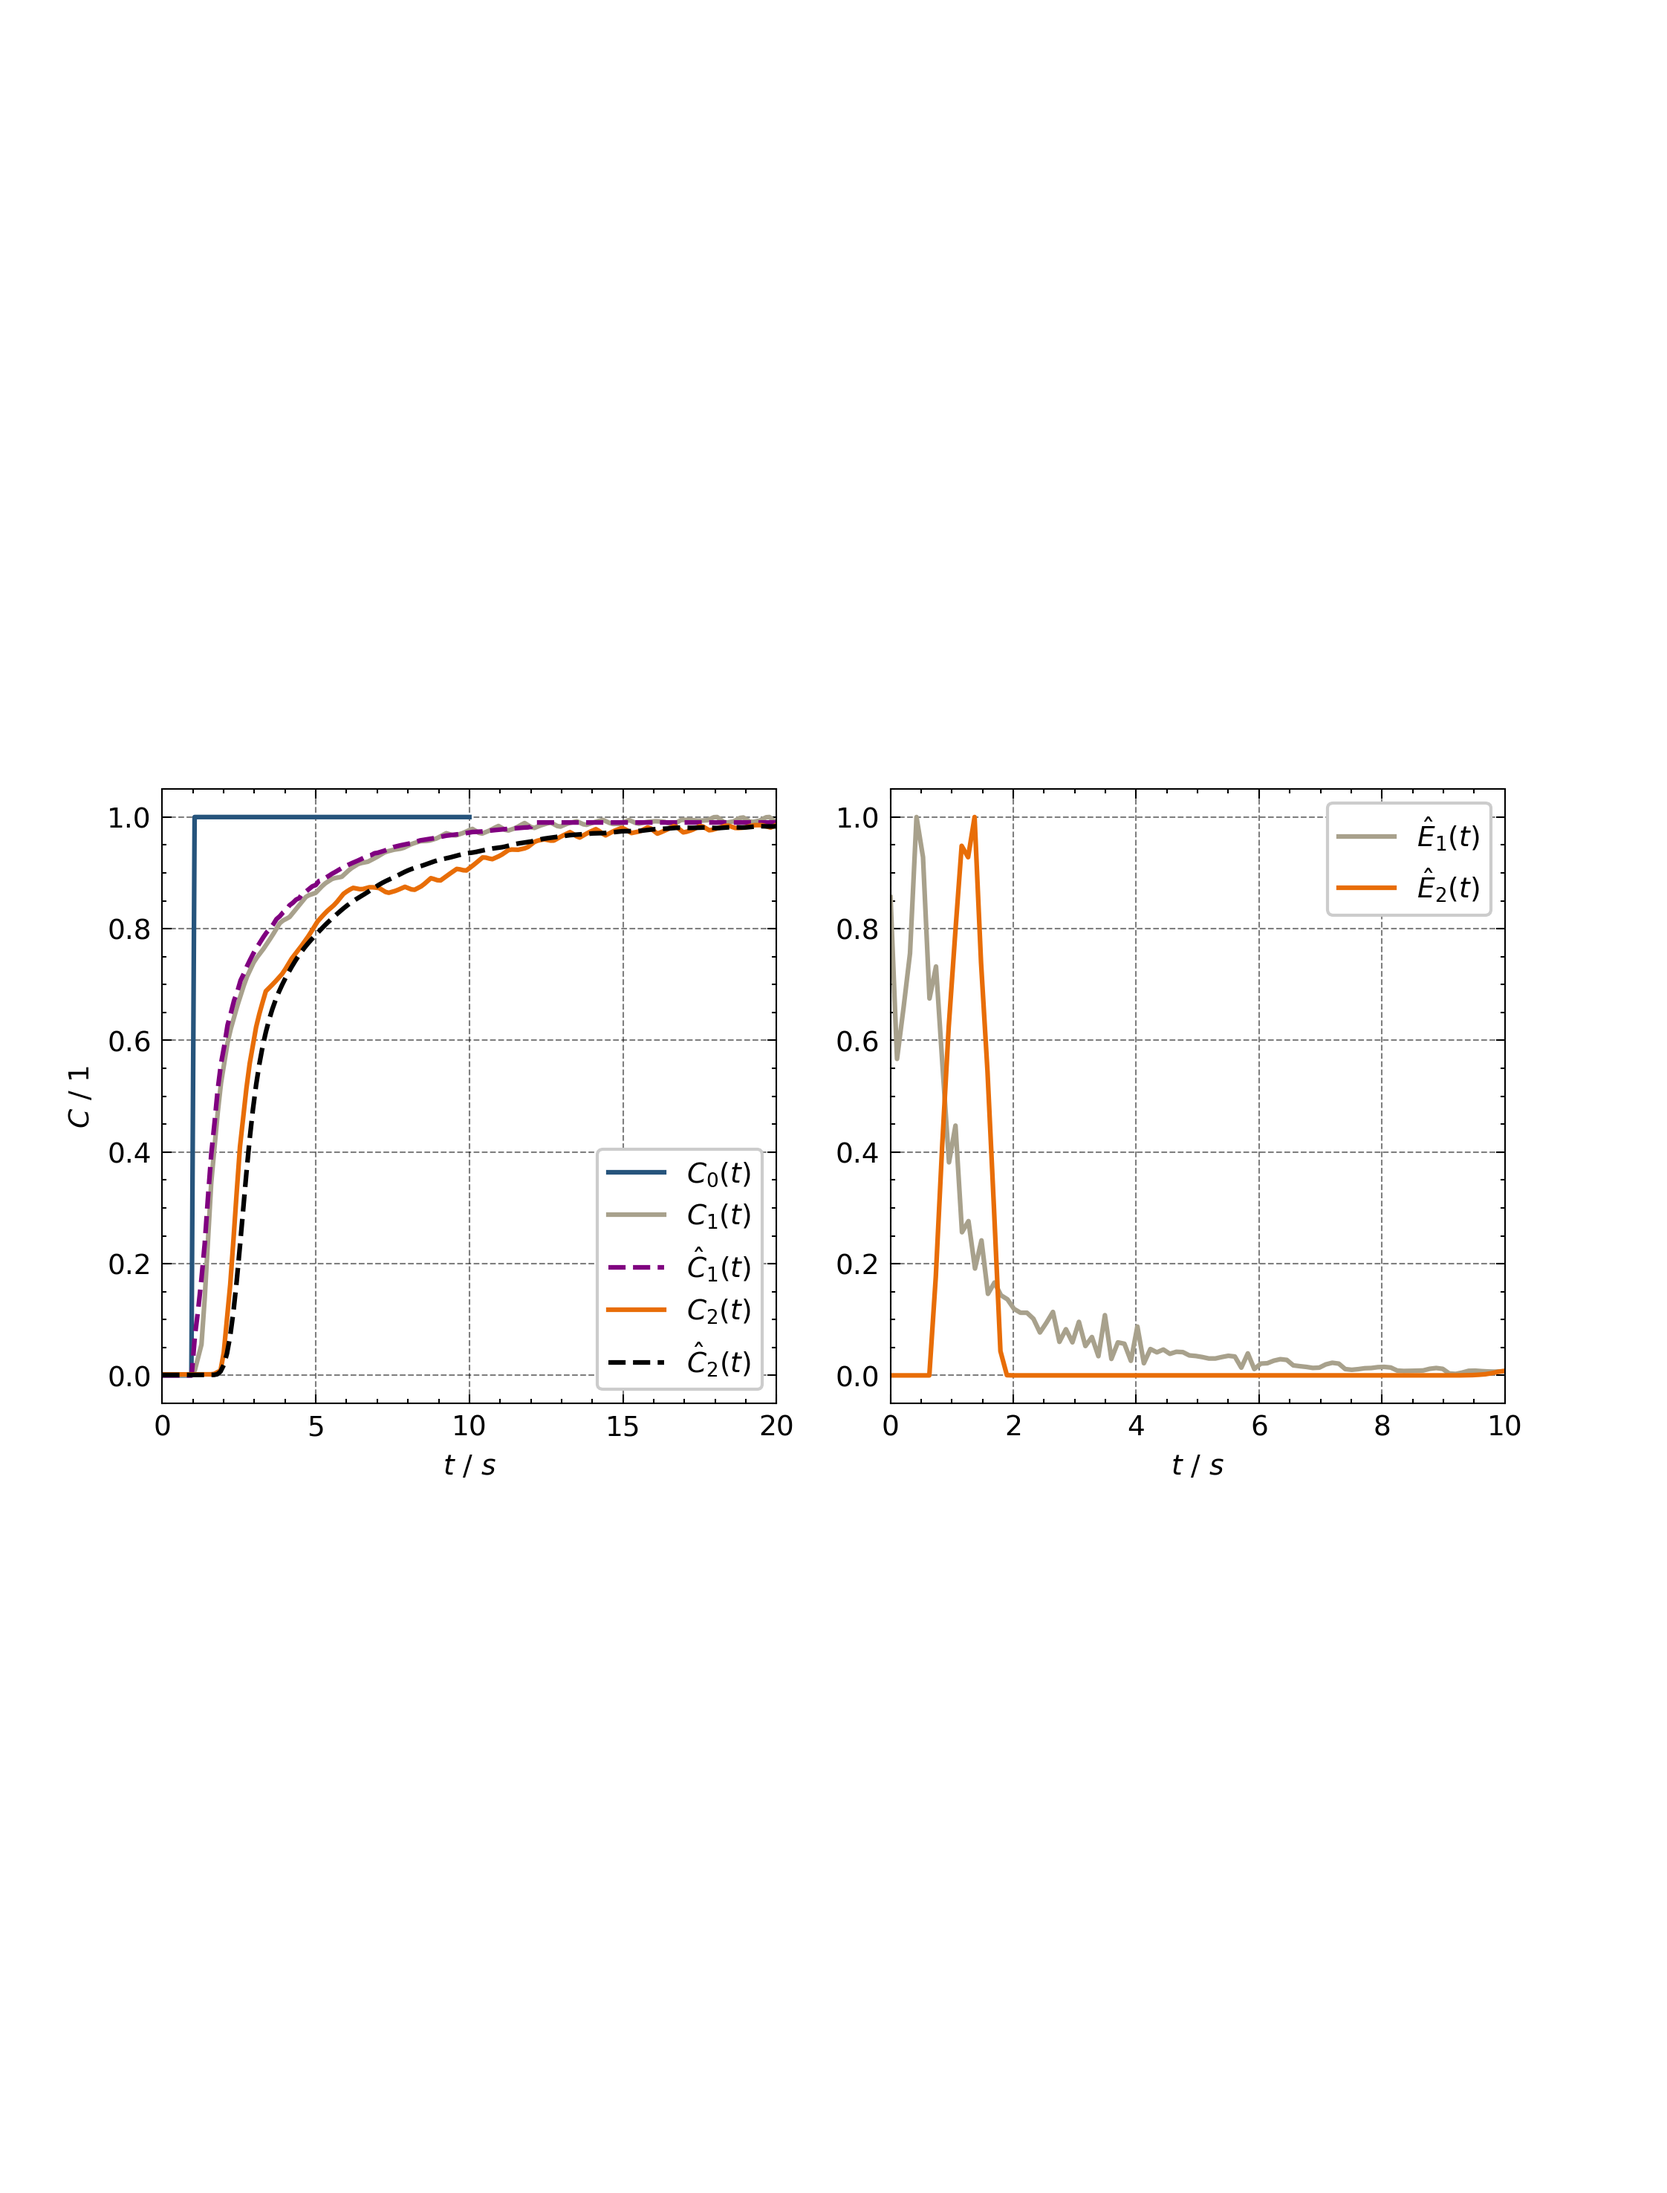
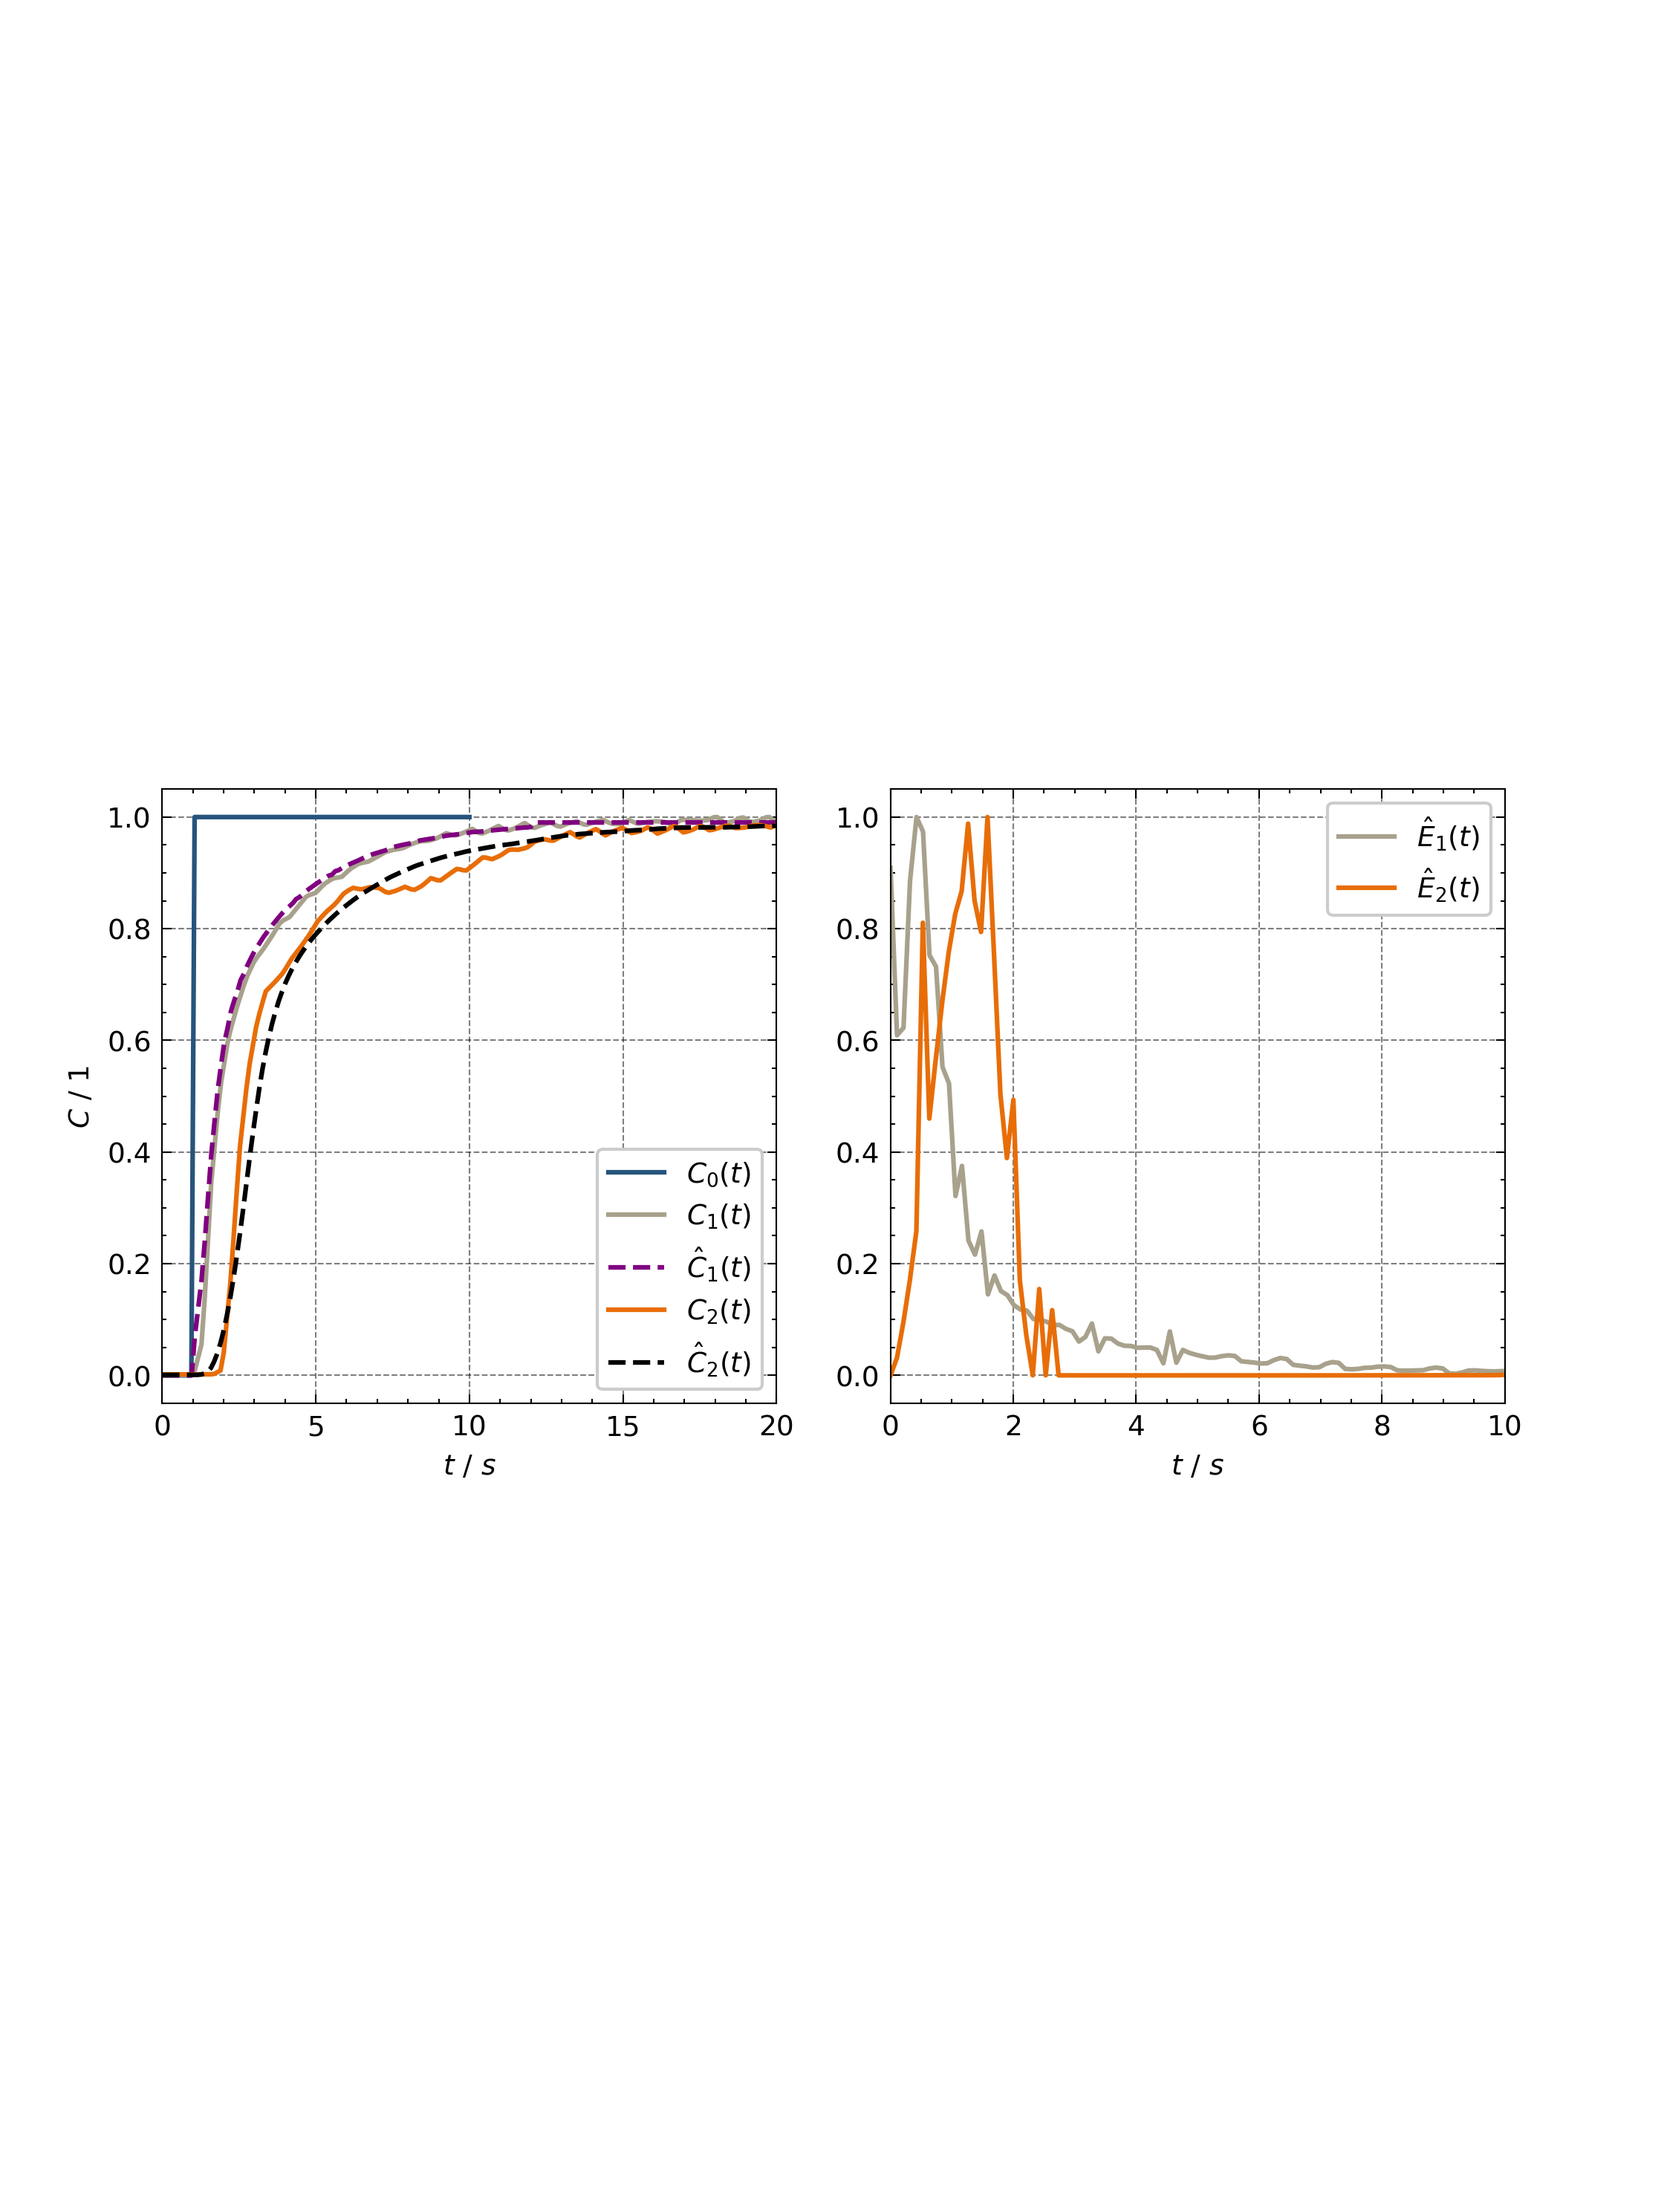
exp

diff --git a/Plots/2nd_Layer_dynamic_profiles.py b/Plots/2nd_Layer_dynamic_profiles.py
@@ -36,14 +36,14 @@ import os
 save_dir = r"D:\Tuana\nRTD\Plots"
 file_path = r"D:\Tuana\nRTD\Plots\wandb_export_2024-12-27T01_42_23.467+01_00.csv"
 #file_path="/Users/tuanaoyuncu/Documents/GitHub/nRTD/Plots/wandb_export_2024-12-27T01_42_23.467+01_00.csv"
-save_dir="/Users/tuanaoyuncu/Documents/GitHub/nRTD/Plots"
+#save_dir="/Users/tuanaoyuncu/Documents/GitHub/nRTD/Plots"
 
 df=pd.read_csv(file_path,delimiter=",",usecols=[0,4,10])
 print(df.head())
 
 #epoch,"Layer_2_CH_n_1_out_200_LC_learning_rate_0.01_2nd_epoch_900000_RTD2 - _step","Layer_2_CH_n_1_out_200_LC_learning_rate_0.01_2nd_epoch_900000_RTD2 - _step__MIN","Layer_2_CH_n_1_out_200_LC_learning_rate_0.01_2nd_epoch_900000_RTD2 - _step__MAX","","Layer_2_CH_n_1_out_200_LC_learning_rate_0.01_2nd_epoch_900000_RTD2 - train/loss__MIN","Layer_2_CH_n_1_out_200_LC_learning_rate_0.01_2nd_epoch_900000_RTD2 - train/loss__MAX","Layer_2_CH_n_1_out_200_LC_learning_rate_0.01_2nd_epoch_900000 - _step","Layer_2_CH_n_1_out_200_LC_learning_rate_0.01_2nd_epoch_900000 - _step__MIN","Layer_2_CH_n_1_out_200_LC_learning_rate_0.01_2nd_epoch_900000 - _step__MAX","Layer_2_CH_n_1_out_200_LC_learning_rate_0.01_2nd_epoch_900000 - train/loss","Layer_2_CH_n_1_out_200_LC_learning_rate_0.01_2nd_epoch_900000 - train/loss__MIN","Layer_2_CH_n_1_out_200_LC_learning_rate_0.01_2nd_epoch_900000 - train/loss__MAX"
 ##################################
-
+plt.style.use("ICIWstyle")
 fig = plt.figure( figsize=(Elsevier_Sizes.double_column["in"], 25 * cm2inch))  # Increased figure height for better spacing
 ax = make_rect_ax(
     fig,

diff --git a/Experiments/Preliminary/2_nd_Layer_exp/0001/H_085/Convolution_script_exp_085.py b/Experiments/Preliminary/2_nd_Layer_exp/0001/H_085/Convolution_script_exp_085.py
@@ -31,7 +31,8 @@ from ICIW_Plots import make_rect_ax
 
 if wandb.run is not None:
     wandb.finish()
-    
+
+learning_rate_2=1e-1   
 #save_dir=r"D:\Tuana\nRTD\Experiments\Preliminary\2_nd_Layer_exp\0001\H_085"
 
 learning_rate=1e-2
@@ -273,7 +274,7 @@ print(c_2_in.shape)
 model_2 = RTDModule(
     kernel_sizes=[n_e_2],
     kernel_times=[(0.0, t_e_2)],
-    learning_rate=learning_rate,
+    learning_rate=learning_rate_2,
     use_scheduler=True,
     scheduler_kwargs={"factor": 0.5, "patience": 80},
 )

diff --git a/Experiments/Preliminary/2_nd_Layer_Convolution/2nd_Layer_Lam_Ch.py b/Experiments/Preliminary/2_nd_Layer_Convolution/2nd_Layer_Lam_Ch.py
@@ -26,7 +26,7 @@ from ICIW_Plots import make_square_ax, cm2inch
 tau_l = 5.0
 
 epoch_1=17000
-epoch_2=200000
+epoch_2=900000
 epoch_3=epoch_1
 learning_rate=1e-2
 disc_n_1_out=200
